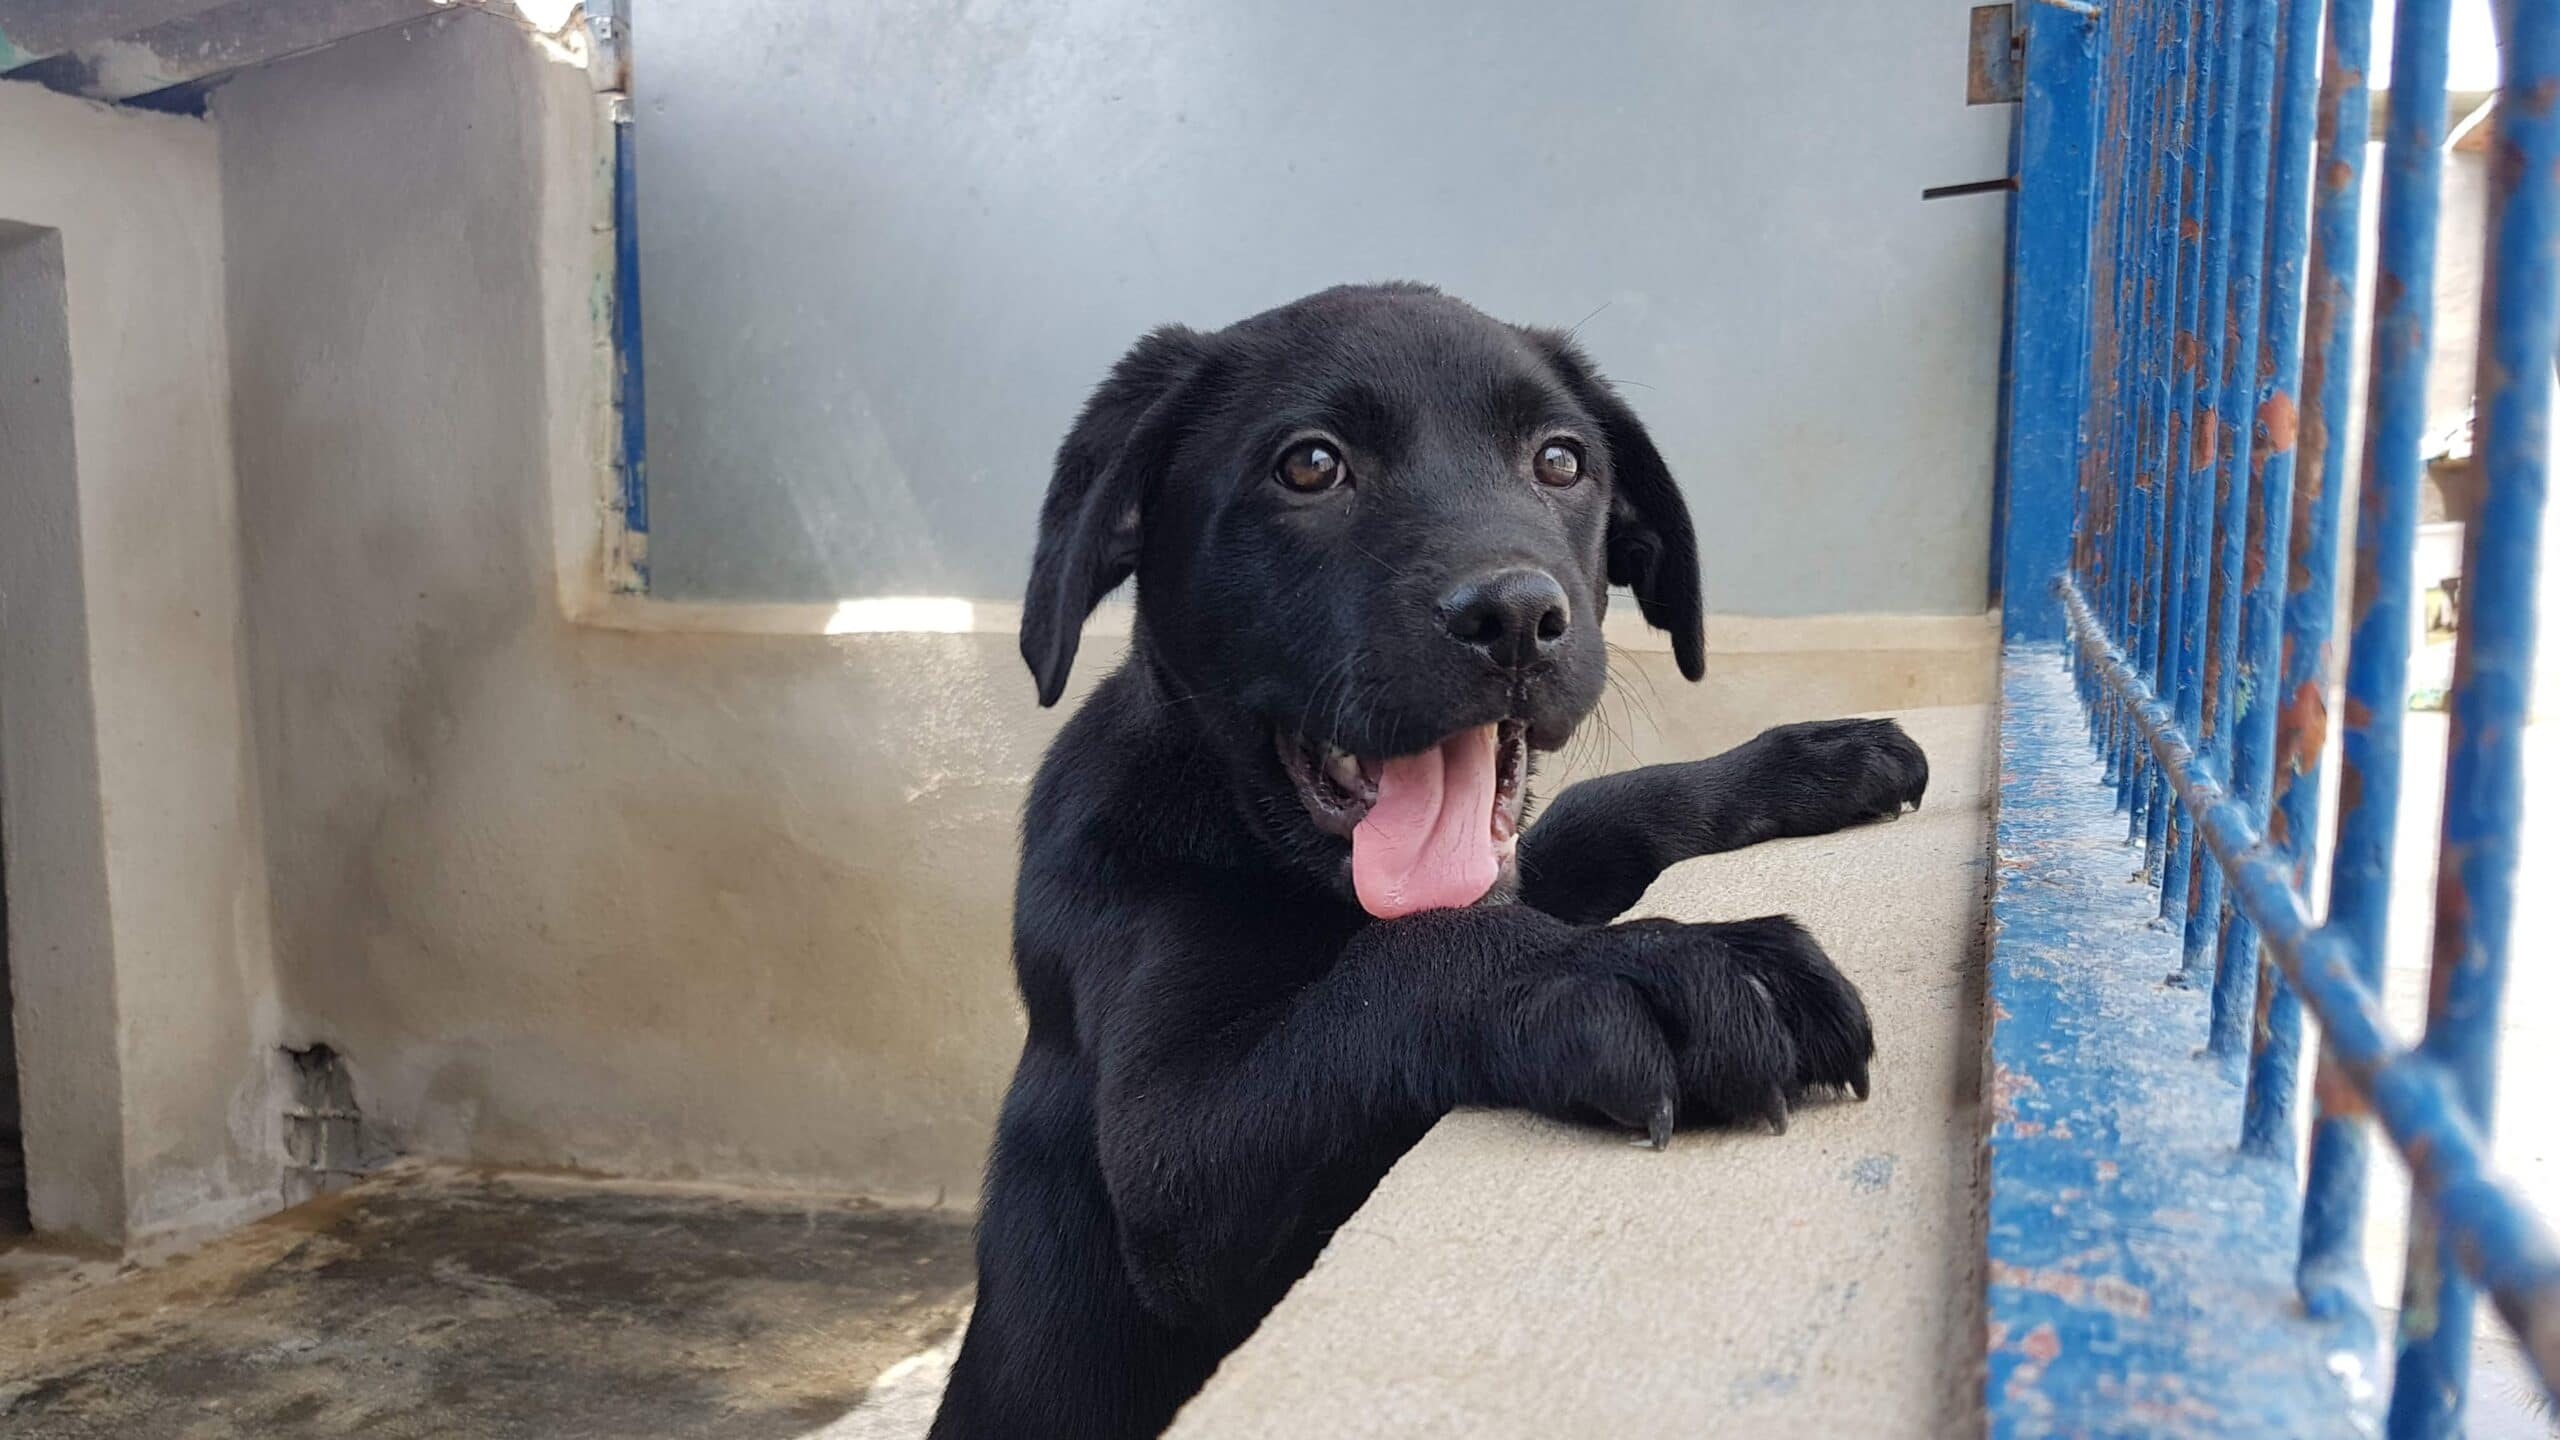
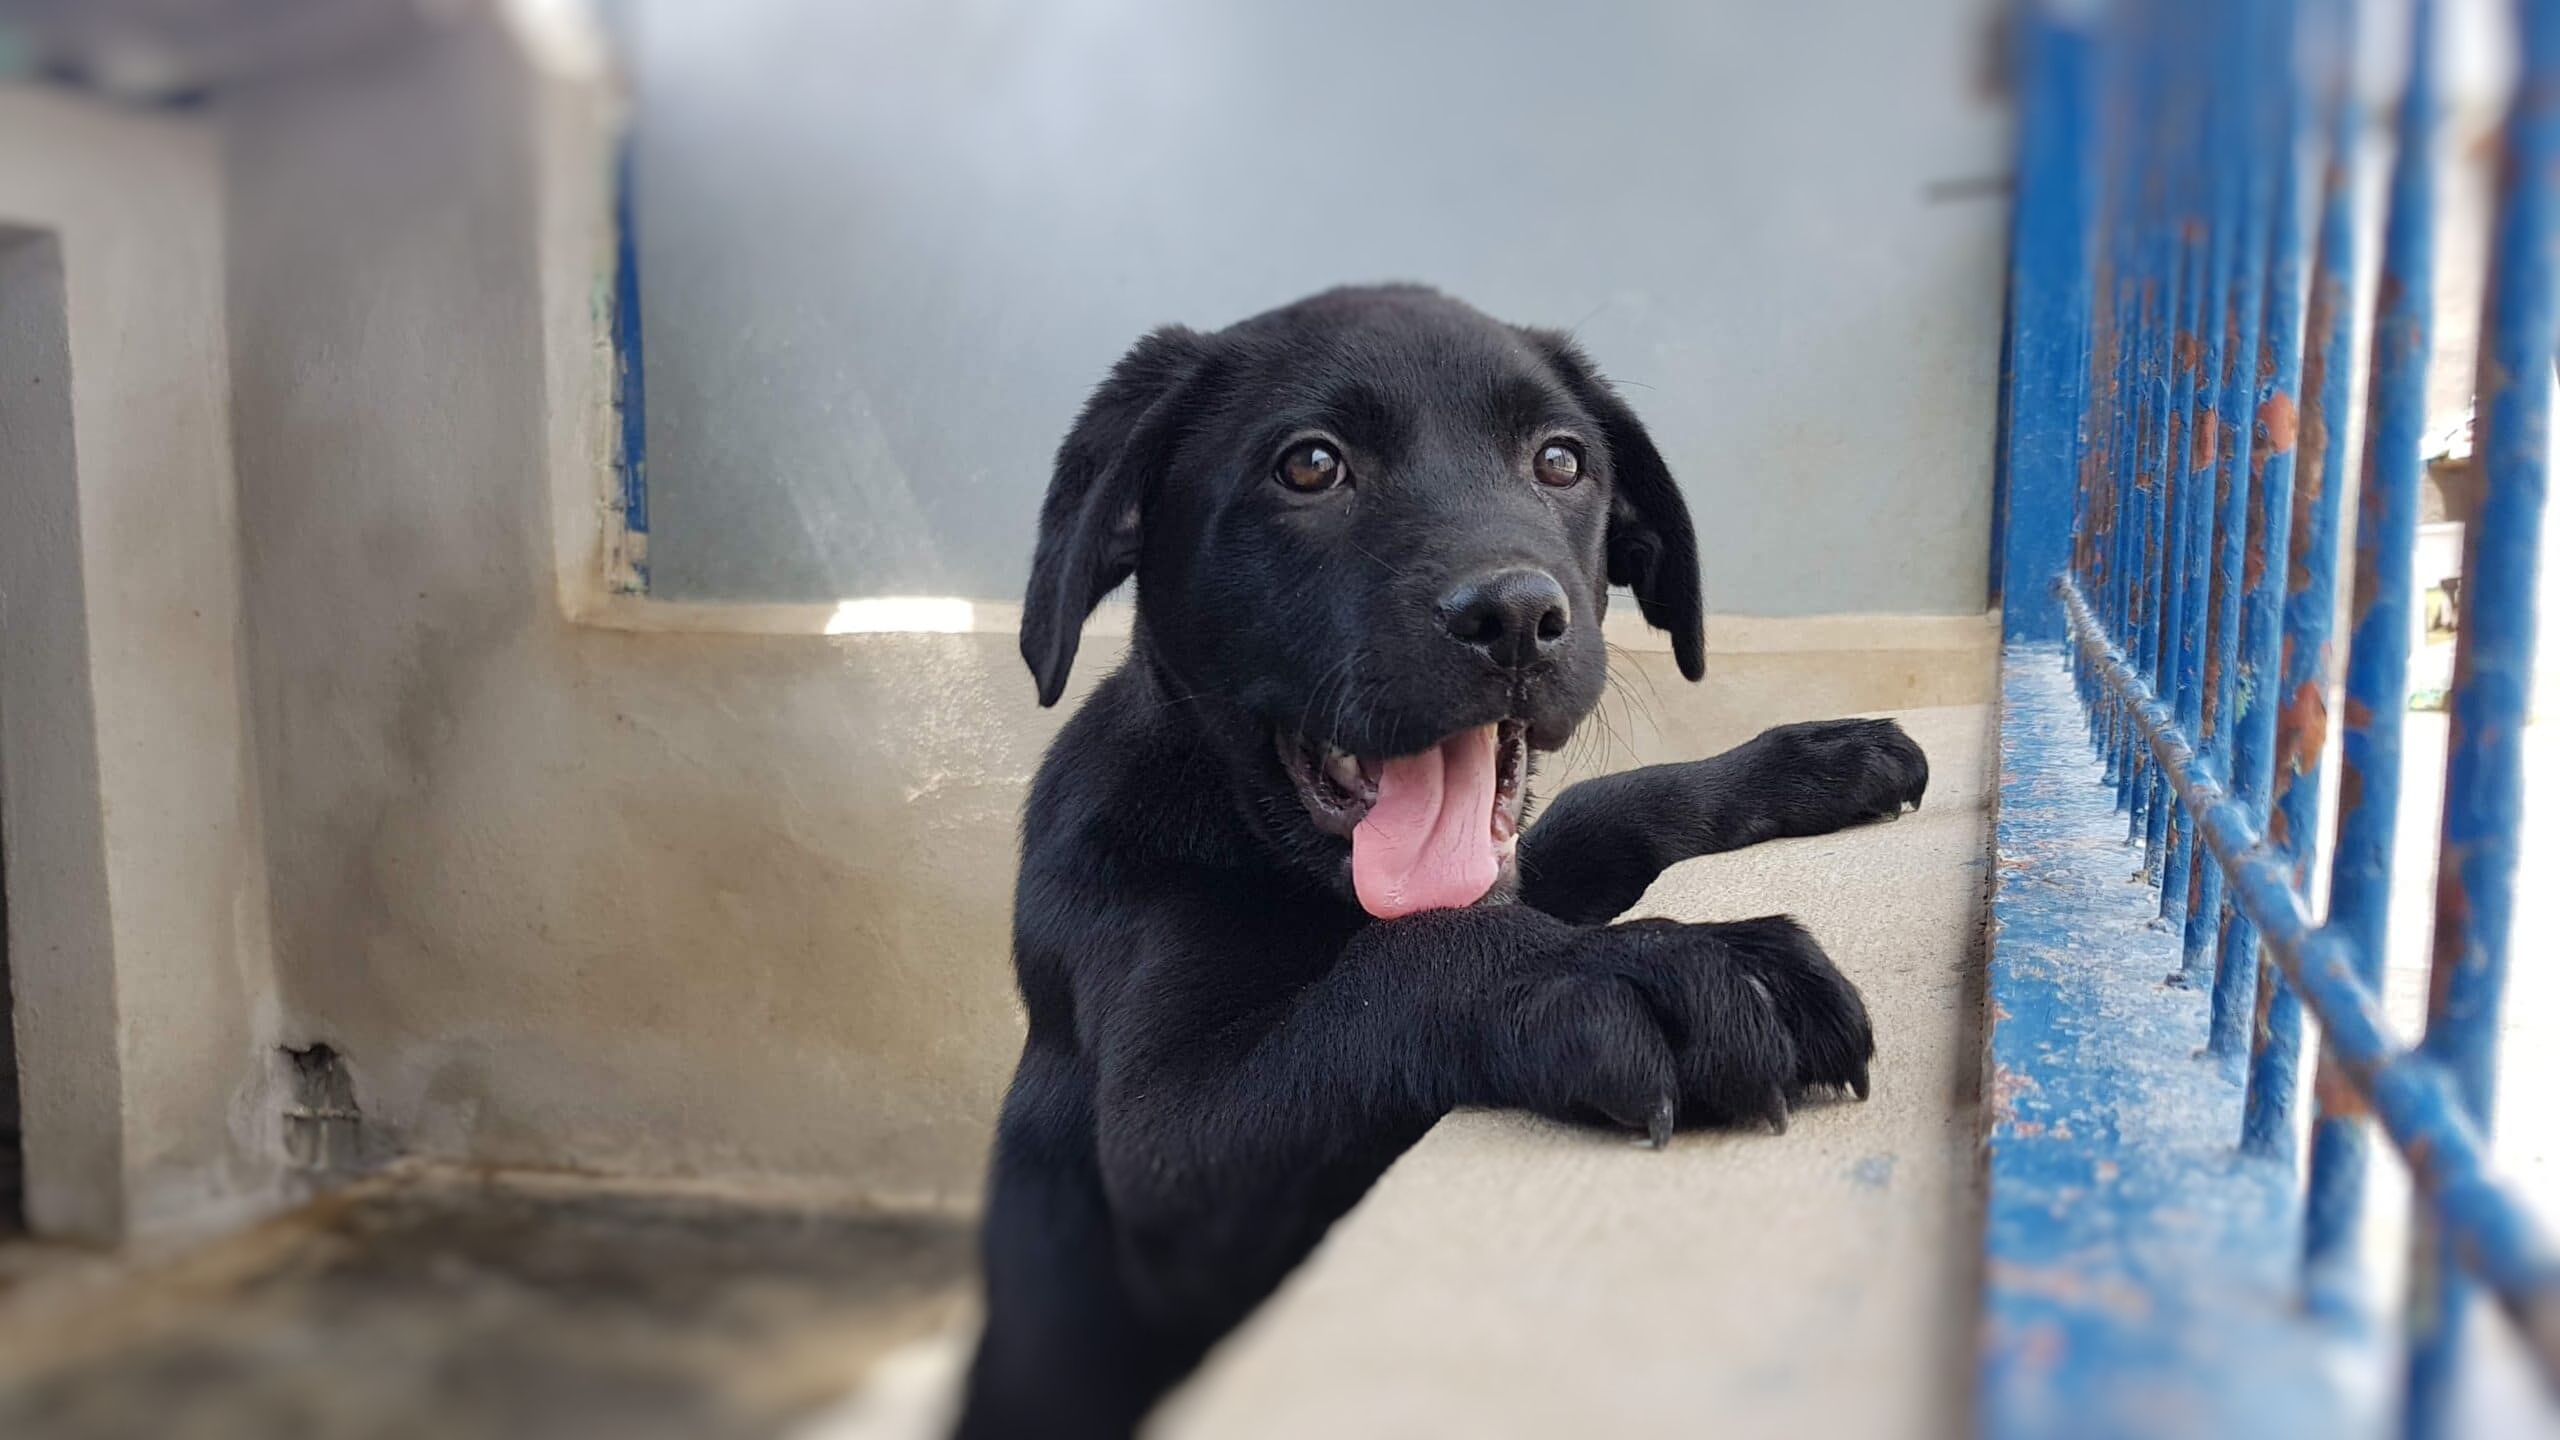
Editando plantilla. Fondo de imagen y su posición

diff --git a/resources/scss/app.scss b/resources/scss/app.scss
@@ -26,6 +26,10 @@
     height: 45px;
 }
 
+.shadow-bottom {
+    box-shadow: 0 15px 10px -10px #333;
+}
+
 .nav-shadow{
     box-shadow: 1px 3px 5px 0 rgba(32,32,32,0.3);
 }
@@ -70,7 +74,7 @@
         background-image: url('../img/template/fondo.jpg');
         background-repeat: no-repeat;
         background-size: 100% auto;
-        height: 700px;
+        height: 430px;
     }
 
     #header-pages{
@@ -84,7 +88,7 @@
 @media (min-width: 1024px) {
     #header{
         background-image: none;
-        height: 595px;
+        height: 570px;
     }
     header{
         background-image: url('../img/template/fondo.jpg');
@@ -97,7 +101,10 @@
 | Responsive view 1280px                                                   |
 |-------------------------------------------------------------------------*/
 @media (min-width: 1280px) {
-
+    header{
+        height: 670px;
+        background-position: 0 -120px;
+    }
 }
 
 /*-------------------------------------------------------------------------|

diff --git a/resources/views/layouts/header-home.blade.php b/resources/views/layouts/header-home.blade.php
@@ -4,17 +4,15 @@
         @include('layouts.navbar')
         
         <!-- Header section (Intro) -->
-        <section id="intro" class="container mx-auto mt-24 lg:mt-32 xl:mt-48">
-            <div class="text-black mt-0 p-3 md:w-1/2 lg:mt-14 xl:mt-24">
-                <h1 class="text-2xl tracking-normal font-poppinsBlack lg:text-2xl xl:text-4xl">
-                    Adipisicing veniam <span class="text-primary">quis irure</span> pariatur proident minim ea velit duis 
+        <section id="intro" class="container mx-auto mt-24 lg:mt-40 xl:mt-48">
+            <div class="text-black mt-0 p-3 pt-0 text-center md:text-left md:max-w-xs lg:max-w-md lg:mt-14 xl:mt-24">
+                <h1 class="text-2xl p-5 tracking-normal md:text-white font-poppinsBlack lg:text-2xl xl:text-4xl shadow-gray-700 shadow-bottom">
+                    Adipising veniam <span class="text-primary">quis irur</span> pariatur proident minim 
                 </h1>
-                <p class="mt-4 mb-2 md:mb-4">
-                    Laborum sit ipsum aute excepteur velit quis amet quis. Irure ut exercitation amet aliqua ad adipisicing 
-                    cupidatat cillum. Dolore non aliquip tempor consectetur veniam incididunt do dolor elit ipsum. Sint id e
-                    nim irure sit anim. Enim officia aute cillum cupidatat enim reprehenderit.
+                <p class="mt-8 mb-2 md:mb-4 md:text-white">
+                    Laborum sit ipsum <span class="font-bold text-primary">aute excepteur</span> velit quis amet quis. Irure ut exercitation amet aliqua
                 </p>
-                <a href=""><button class="my-3 px-10 py-2.5 bg-primary rounded-3xl text-white leading-1">¡Ver mascotas!</button></a>
+                <a href=""><button class="my-2.5 px-10 py-2.5 mx-auto md:mx-0 bg-primary rounded-3xl text-white leading-1 shadow-sm shadow-white">¡Ver mascotas!</button></a>
             </div>
         </section>
     </div>

diff --git a/resources/views/home.blade.php b/resources/views/home.blade.php
@@ -7,7 +7,7 @@
 <!-- Welcome section -->
 <section id="welcome" class="container mx-auto">
     <div class="grid grid-cols-1 gap-4 my-14 justify-center">
-        <div class="flex items-center px-2 xl:px-1">
+        <div class="flex items-center px-6 xl:px-1 text-justify">
         Sit voluptate aute cupidatat tempor dolore laborum proident qui nostrud aute officia laborum. Pariatur laboris anim commodo et ipsum eu eu esse mollit non dolore. Commodo esse esse mollit aliquip. Do reprehenderit incididunt cupidatat aliqua deserunt sint excepteur proident proident. Aliqua occaecat Lorem dolor dolore eu ea irure dolore nulla proident amet dolor veniam. <br>
         Sit voluptate aute cupidatat tempor dolore laborum proident qui nostrud aute officia laborum. Pariatur laboris anim commodo et ipsum eu eu esse mollit non dolore. Commodo esse esse mollit aliquip. Do reprehenderit incididunt cupidatat aliqua deserunt sint excepteur proident proident. Aliqua occaecat Lorem dolor dolore eu ea irure dolore nulla proident amet dolor veniam. <br>
         Sit voluptate aute cupidatat tempor dolore laborum proident qui nostrud aute officia laborum. Pariatur laboris anim commodo et ipsum eu eu esse mollit non dolore. Commodo esse esse mollit aliquip. Do reprehenderit incididunt cupidatat aliqua deserunt sint excepteur proident proident. Aliqua occaecat Lorem dolor dolore eu ea irure dolore nulla proident amet dolor veniam. <br>

diff --git a/routes/web.php b/routes/web.php
@@ -3,16 +3,19 @@
 use App\Http\Controllers\ProfileController;
 use Illuminate\Support\Facades\Route;
 
-/*
-|--------------------------------------------------------------------------
+/*-------------------------------------------------------------------------------
+
+  ...      __..--''``---....___   _..._    __                  __
+ /// //_.-'    .-/";  `        ``<._  ``.''_ `. / // /      __/_  `.  .-"""-.
+///_.-' _..--.'_    \                    `( ) ) // //       \_,` | \-'  /   )`-')
+/ (_..-' // (< _     ;_..__               ; `' / ///         "") `"`    \  ((`"`
+ / // // //  `-._,_)' // / ``--...____..-' /// / ///        ___Y  ,    .'7 /|
+    // // //      `..-' ///               // // //         (_,___/...-` (_/_/
+    ` ` ` ` `           ''''               ` ` ` `          ` ` ` `` ` ` `` ` `
+
+|--------------------------------------------------------------------------------
 | Web Routes
-|--------------------------------------------------------------------------
-|
-| Here is where you can register web routes for your application. These
-| routes are loaded by the RouteServiceProvider and all of them will
-| be assigned to the "web" middleware group. Make something great!
-|
-*/
+|------------------------------------------------------------------------------*/
 
 Route::get('/test', function () {
     return view('layouts.main');
